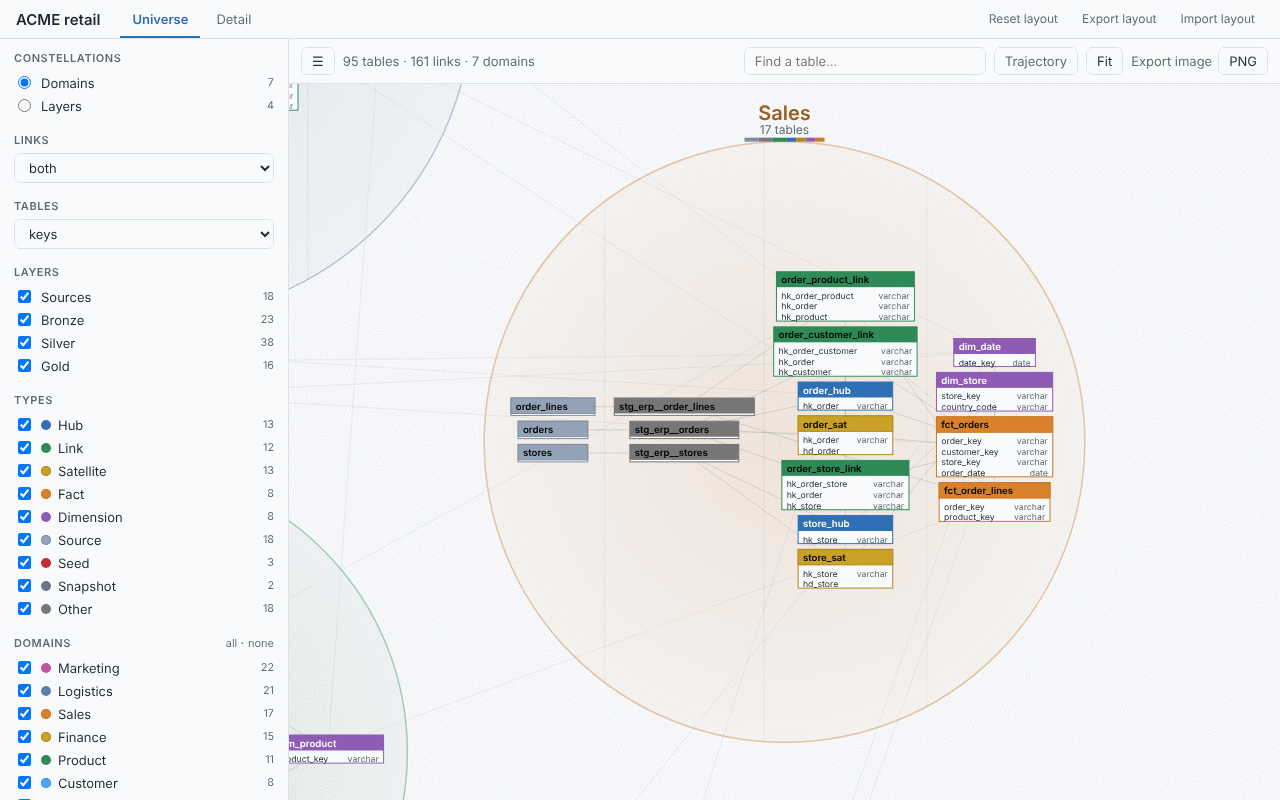
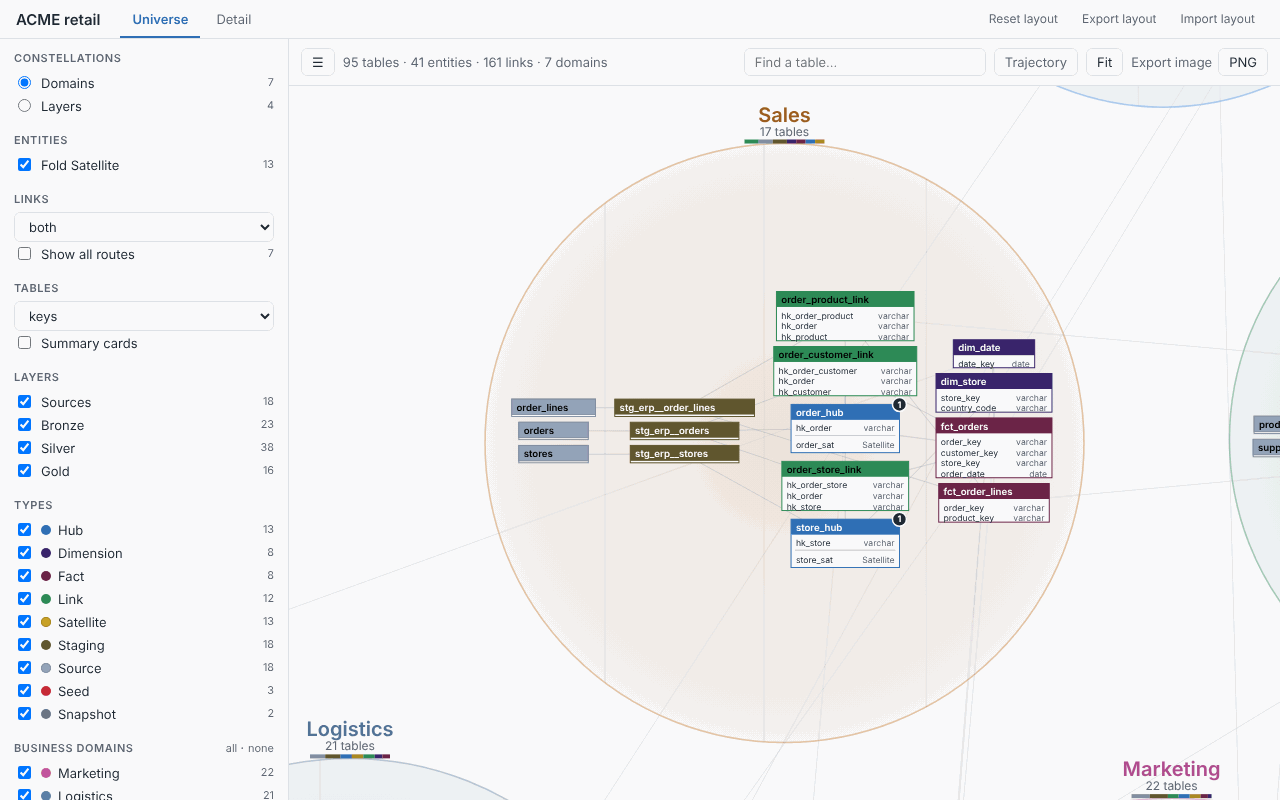
docs(docs): documentation round after M8
The seven screenshots of the example are retaken on the page as M8
leaves it (satellites folded, summary cards off by default), and
three images of the generated large project join them: its overview
with source systems apart and routes, the same with summary cards,
and the skeleton of a large detail group. The user guide shows them
where the features are described; the README and the root CLAUDE.md
name the M8 features, and the README's CI line follows D-053.
Approval of the screenshots by the user is pending.

Milestone: M8

Claude-Session: https://claude.ai/code/session_01SqA5qnr2e821Rq5c737Dbk

diff --git a/docs/progress.md b/docs/progress.md
@@ -39,6 +39,7 @@ Maintained by the `/build-roadmap` skill. Branch: a feature branch per session, 
 | M8.4 Source systems apart, readable routes | done | `c7a93f1` | Built per `docs/architecture/2026-11-12-m8.4-systems-routes.md` (D-068 to D-071), brief `docs/briefs/2026-11-12-m8-synthesis.md` § 4 and § 8. Payload: `UniverseDomain.system`, last key of a domain, default false; the reference pages change by that key and the script only (payloads equal once the key is removed); `true` in `data_vault` (raw, staging), `edge` (raw), `fr` (raw), `layers_domains` (raw), `none` (raw), `roles` (products, raw, sales_team), `star_schema` (staging); `kinds` has none. Config: `DomainRule.system` (first rule of the key that sets it wins).<br>Placement at 1280 × 800: Fit 0.187 (0.181 before; the toolbar keeps one row), weight 1, 6 cards (five business and one group card of the seven systems, 118 × 138 px, area 0.19 of the seven M8.3 squares), card widths vehicle 214, auction 189, account 170, activity 131, claim 125; `GRID_GAP` 120 and `FLOW_X_BUSINESS` 0.15 kept as designed (the large project has no directed business route, so only the systems move). Route ink: the design's .5 was raised to **.6** after the large-project Fit screenshot (the thin business routes did not read at .5); arrowheads .8.<br>Routes on the large project (links both): 15 routes at Fit (10 business, 5 bundled; 13 drawn by default, "13 of 15 routes"), 43 at the stars scale (35 drawn; 26 after fix loop 1: a system draws at most its three heaviest, none of weight 1, none uncleared). **Crossings** (route paths against the outlines, `geometry().routes` and `outlines`, 1 px shrink): 0 and 0 unclear on the large project in domain mode at Fit and at the stars scale, in layer mode (3 routes) at both, and on acme_retail at Fit (7 routes); straight centre-to-centre segments over the same discs cross 37 constellations (43 routes, stars scale; measured on the M8.4 placement, not the M8.3 one). Measures (browser, large project): page open 0.39 to 0.45 s (budget 3 s); `perf.layout` 77 to 90 ms; `perf.routes` 4 ms at Fit and 22 to 34 ms at the stars scale on first draw (budget 30 ms: at the limit when 18 routes need the visibility graph; paths are found when drawn and kept while nothing moves); a Links change 90 to 130 ms (1 s); a frame 1.4 ms at Fit, 25 to 37 ms at the stars scale on first draw (50 ms), spotlight redraw 1.5 to 2.5 ms; a drag step 2 to 6 ms (16 ms); the 1,500-table payload (30 domains, 210 routes, the visibility graph skipped above 14 obstacles) 570 ms for a detail change (1 s). Page sizes: acme 267 kB (227 before), large 957 kB (917 before). Default suite 925 passed, 4 skipped (904 before); browser suite 424 (385 before), see the final run in the commit. Deviations in the note's terms: the obstacle of a constellation is its disc and its card square plus 20 world px, not a circle of 1.2 r + 20 (that circle overlaps its neighbours' on the large project and leaves no passage); a visibility-graph search is the last resort after the straight, bent and waypoint candidates; `#u-meta` wraps inside a two-line box of its own (a longer line wrapped the toolbar, resized the stage and refitted the page when the zoom crossed 0.6); the all / none links of the Domains headings are keyboard stops; the group card's count line falls back to "504 tables" at 118 px (the room rule), the full line is in the tooltip and the text summary. Review loop 1 (1460c16, c7a93f1): layer-mode band keys fixed (one `DOM_LIST`); at most 3 routes per source system, no ties, none of weight 1 unless spotlighted (26 of 43 at stars, was 35); uncleared routes hidden unless spotlighted; no-crossing test extended to the stars scale; `perf.routes` per frame; one-line meta, tooltip off the hovered card. Full browser suite 445 passed. Open: the group card heading still reads "Sour…" at 360 px; the stars-scale perf test retries a second batch on a busy machine (alone: median 12 ms, worst 15.5 ms). **Screenshots await the user's approval at the M8 close** (done-when 2 of M8.4; retaken then, `docs/images/README.md`). |
 | M8.5 Detail skeleton | done | `544016a` | Built per `docs/architecture/2026-11-12-m8.5-detail-skeleton.md` (D-072 to D-077), brief `docs/briefs/2026-11-12-m8-synthesis.md` § 4 and § 9. Payload: `DetailEntity.parent` and `DetailKind.role`, last keys at their defaults (`detail_data(parents)`, the universe's parent map built by `cli._views`); the reference pages change only by those keys (all empty, no case holds a parent), regenerated once. `detail.js`: skeleton, folded row, tooltip, meta line, highlight, Entities control (`dbtscope-detail-fold:<title>`), passage rule, `|fold` arrangement key, `drawing()` hook; `common.js` `viewerMemory`, `foldLabel` and the shared fold strings (moved from `universe.js`, no behaviour change); `tests/browser/test_detail_skeleton.py`, `tests/fixtures/m8.5-detail-baseline.json` (acme_retail and shop drawings equal the pre-M8.5 ones, by hash).<br>**Measure of § 5.4** (`vehicle` group, 277 tables in the scope, 1280 × 800, header = 16 pt × Fit × 1.15³): today no fold 277 drawn, 1,745 × 20,430 pt, W/H 0.09, 0.4 s, 0.8 px; fold with today's layout 138, 1,236 × 6,984, 0.18, 0.4 s, 2.4 px; dot with imposed columns (§ 5.2, K = 6) 138, 1,636 × 5,801, 0.28, 0.4 s, 2.9 px; fallback 1 (nodesep 0.2, ranksep 0.7) 1,083 × 4,962, 0.22, 3.3 px (est.), with the sinks over 6 columns 4,015 × 4,348, 0.92, 3.8 px (est.); **adopted: the grid of § 5.2's dealing, K = 7, pinned in neato** 138, 1,942 × 1,267, W/H 1.53, 2.6 s, 18 ms of preparation, 12.4 px (bounds: 5 s, 50 ms, 10 px, W/H 0.5 to 3). The missed bounds led to D-074 (grid + neato); drawn is 138, not the estimated 136 (72 hubs, 64 links, 2 satellites without a parent in the scope). "All groups" (788 tables, 368 drawn) draws straight lines (Viz.js aborts out of memory when 277 pinned tables are routed), 0.5 s. A focus on a median hub (8 tables): header 17.7 px at Fit; on the busiest hub 7 px at Fit, readable after one notch.<br>Default suite 940 passed, 4 skipped; browser 480 (445 before); page 287 kB on the example (270 before). Open points below Review loop 1 (544016a, D-078): column pairs [hubs | links], each link beside its first parent, rows aligned by barycentre sweeps, straight grey edges; vehicle skeleton 138 tables, W/H 1.65, 0.3 s (was 2.6 s), names 10.7 px after three notches (bound 10); the shown 277-table drawing on the same grid (W/H 1.29, 0.3 s) with a Fold button by the warning; `TIP_FOLDED` in common.js. Default suite 948; browser 492. **Screenshots await the user's approval at the M8 close** (M8.5 changes the detail images; retaken then, `docs/images/README.md`). |
 | M8.6 Summary cards optional, off by default | done | | Built per `docs/architecture/2026-11-14-m8.6-cards-switch.md` (D-081). Payload: `defaults.cards`, last key of the universe defaults; every reference page changes only by `,"cards":false` (payloads equal once removed, checked on all ten cases), regenerated once. `universe.cards` (strict bool, default false, allowed in presets); `universe.js` `state.cards`, `cardsMemory` (`dbtscope-cards:<title>`), the one switch point `summaryWeight`, `#u-cards-row`, strings en / fr, `geometry().summary.on`, hook `labelRects()`; no CSS change. Existing card tests run on `large_cards_page` / `CARDS_ON`, assertions unchanged; new `tests/browser/test_cards_switch.py` (27 tests). Labels at Fit with cards off: 1280 px no overlap, worst reach into another disc 6.3 px (domains), 0 (layers); 360 px six pairs of system labels overlapped, fixed by skipping a label that is not free (business first, then systems in grid order); 360 px still shows a business label 25 px over its neighbour's disc (recorded in the note, left to the user). Default suite 959 passed, 4 skipped (948 before); browser suite serial 520 (493 before). |
+| Documentation round after M8 | done, approval pending | | 2026-11-15. The seven acme_retail screenshots retaken (cards off, satellites folded, the detail as the whole window) and three `large-*` images added (overview, cards, detail skeleton), `docs/images/README.md` updated; the three new images referenced in the user guide, the `universe-overview` caption corrected; README no longer says CI runs on three systems (D-053); roadmap, changelog and `CLAUDE.md` "What this is" updated. The guide and how-it-works were found true against the code for M8. Approval of the screenshots by the user: pending. |
 
 ## Open points
 

diff --git a/docs/user-guide.md b/docs/user-guide.md
@@ -48,7 +48,7 @@ Where it comes from: the dbt **manifest**, which `dbt parse` writes. Relations c
 
 dbtscope never connects to your warehouse and the page holds no data: only names, types and descriptions ([what never happens](how-it-works.md#what-never-happens)).
 
-![The universe of the example project: seven domains, their tables by layer, and the routes between domains](images/universe-overview.png)
+![The universe of the example project: seven domains, their tables by layer with the satellites folded into their hubs, and the routes between domains](images/universe-overview.png)
 
 ### Words used in this guide
 
@@ -795,6 +795,7 @@ Every model, source, seed and snapshot of the project as a star, grouped into on
 
 An option, **off by default**: tick **Summary cards** in the side panel (or set `universe.cards: true` in `dbt-erd.yml` or in a preset file to open with it) and zooming out replaces the swarm of stars of each constellation by one **summary card**. Unticked, the map shows stars, names and routes at every zoom, a source system is a grey disc of its own and the routes of the source systems are not bundled.
 
+![The large example project zoomed out with Summary cards ticked: one card per business domain and one group card for the source systems](images/large-cards.png)
 
 - **What a card says**: the name (in the domain's colour), `299 tables · 152 entities` (entities only while the descriptive tables are folded), then one row per layer in flow order (one per domain when grouping by layer, with its colour dot): the label, a bar split by kind in the order of the Types list (the widest row fills the bar; a kind is never thinner than 2 px) and the number of tables; then **Main tables**, up to five core tables with the most relations, each with its kind dot. A constellation with no core table (a source system) shows no main table. Every count includes the folded tables and follows the filters.
 - **When it appears**: the card replaces the stars when the reference star (the median core star, or the median star of the highest role present) would be drawn under about 2 px; it is fully drawn there and the stars are fully drawn from about 3 px up, with a crossfade in between. On a screen too narrow to tell stars apart, or after zooming out past **Fit**, even a small project shows cards. Unticking **Summary cards** (or leaving `universe.cards` at `false`) turns the cards off at every zoom; the hidden text summary below stays.
@@ -811,6 +812,8 @@ An option, **off by default**: tick **Summary cards** in the side panel (or set 
 - **Routes**: one per pair of domains linked by their tables, from the edge of one to the edge of the other, curved around the domains in between, as thick as the number of links, with an arrowhead at the reader's end when the lineage goes one way (two heads when each reads the other, none for business relations only, which have no direction). By default the strongest are drawn: those among the three heaviest of either of their ends; a source system draws at most its three heaviest, none of weight 1, and a route the page cannot draw clear of the other domains is left out too. When some are hidden the count line says so ("18 of 40 routes", in place of the number of links, so the line stays on one line) and **Show all routes** draws them all (kept for the session only); pointing at a domain draws all its routes anyway. With summary cards on, from afar the routes of the source systems are bundled into one route per business domain.
 - **Hover or focus**: pointing at a domain, or hovering or focusing its row in the panel (Tab to the row), draws **all** its routes, keeps its neighbours bright and dims the rest. Hovering a route gives its tooltip: its ends (upstream first), its relations and lineage links (only those **Links** counts), who reads whom, and for a bundled route the systems it sums.
 - **Screen readers**: the hidden summary lists the source systems as one block and, for each constellation, every route with its counts and direction.
+
+![The large example project at opening, summary cards off: the seven source systems apart on the left, the five business domains along the data flow, and the routes between them](images/large-overview.png)
 
 ### Entities: descriptive tables folded into their parent
 
@@ -871,6 +874,8 @@ The entity-relationship diagram of one group of tables, drawn by Graphviz.
 - **Kind filters**: tick hubs, links, facts, dimensions… on and off. The layout is recomputed.
 - **Focus**: type a table name or double-click a table to show only its neighbourhood, 1 to 3 levels deep; **Show all** returns to the whole group. A **connector** (a link of a Data Vault, or any kind with the role `connector`) costs no level: at "direct links" a hub shows its satellites, its links and the hubs across those links; the panel says "Passing through Link costs no level". A focus draws every table of its neighbourhood in full, with its columns, whatever the fold choice below.
 - **Large groups, folded**: when a group holds more than 60 tables and some descriptive tables have a parent ([why a satellite has no parent](#why-is-this-satellite-not-folded)), the detail opens as a **skeleton**: only the core and connector tables are drawn, hubs on the left and links on the right, laid out in as many column pairs (hubs, then their links) as the drawing area asks for, so that the names stay readable after a few wheel notches; relations are straight grey lines on a large drawing (above 5,000 tables × relations; smaller ones route them around the tables). Unfolded, the group is drawn the same way (a warning says it is hard to read, with a **Fold** button next to it). Each table that holds descriptive tables ends with one row, "+ 3 folded tables · Satellite" (or "+ 4 folded tables · Satellite 3 · PIT 1"); hover the table for the list of its folded tables and its column count. A skeleton draws no column rows, only the table's name and the folded row: a focus, or **All columns**, shows the columns. The meta line reads "138 / 277 tables · 139 folded · N relations" (the large example project's `vehicle` group): drawn tables out of the group's, folded tables, drawn relations (hover it for the split by kind). Type a name in **Highlight…** and the table that holds the match is lit.
+![A large group of 277 tables opened as a skeleton: 138 tables drawn, hubs on the left and links on the right, each with its folded row](images/large-detail-skeleton.png)
+
 - **Entities**: the panel's **Entities** box, "Fold Satellite", shows only for such a group, with the number of tables it folds. Untick it to draw every table of the group; the page then warns "271 tables: the drawing will be hard to read". While a table is focused, the box is greyed (a focus draws every table); your choice applies again when you press **Show all**. The page remembers it in the browser (`dbtscope-detail-fold:<title>`, never exported); it is separate from the universe's **Fold**.
 - **Columns**: key columns only by default (columns matching `key_columns`, plus every column used by a relation, in bold), with **All columns** for every column. Hover a table for its dbt description.
 - **Highlight**: click a table to highlight its links; type in **Highlight…** to mark tables by name.

diff --git a/docs/images/README.md b/docs/images/README.md
@@ -1,16 +1,19 @@
 # Documentation screenshots
 
-Screenshots of the page of the example project `examples/acme_retail`, used by the README and `docs/user-guide.md`. Approved by the user on 2026-11-05 (M6.1, design note `docs/architecture/2026-11-05-m6.1-documentation.md` § 7). Budget, checked by `tests/unit/test_docs.py`: each PNG at most 200 kB, the folder at most 1.2 MB, every image referenced by a document.
+Screenshots of the page of the example project `examples/acme_retail` and of the generated large project (`tests/large_project.py`), used by the README and `docs/user-guide.md`. The seven acme_retail images were approved by the user on 2026-11-05 (M6.1, design note `docs/architecture/2026-11-05-m6.1-documentation.md` § 7); the retake of 2026-11-15 and the three `large-*` images: approved: pending (user). Budget, checked by `tests/unit/test_docs.py`: each PNG at most 200 kB, the folder at most 1.2 MB, every image referenced by a document.
 
 | File | View and state | Used in |
 |---|---|---|
-| `universe-overview.png` | universe at opening (Fit), names level, every domain | README, user guide § What dbtscope is |
-| `universe-domain.png` | Sales domain framed as a double-click does, keys level | user guide § The universe view |
-| `trajectory.png` | trajectory of `fct_orders`, both directions, all levels, then Fit | § Trajectory |
+| `universe-overview.png` | acme_retail, universe at opening (Fit), names level, every domain, summary cards off (default), satellites folded into their hubs | README, user guide § What dbtscope is |
+| `universe-domain.png` | acme_retail, Sales domain framed as a double-click does, keys level | user guide § The universe view |
+| `trajectory.png` | acme_retail, trajectory of `fct_orders`, both directions, all levels, then Fit | § Trajectory |
 | `flow.png` | the flow of that trajectory, Fit | § Flow |
-| `detail-vault.png` | detail, group `sales`, key columns, kinds Fact and Dimension unticked (with them the dimension row and the vault block overlap, so no cut keeps every table whole), zoomed out one wheel step from Fit and cut below the last whole row of tables (1280 × 725) | § The detail view |
-| `detail-focus.png` | detail, group `customer`, focus on `dim_customer`, direct links, all columns, zoomed out three wheel steps from Fit | § The detail view |
-| `small-screen.png` | universe at 390 × 844, touch, panel closed | § Zoom, pan and touch |
+| `detail-vault.png` | acme_retail, detail, group `sales`, key columns, kinds Fact and Dimension unticked, Fit then zoomed out one wheel step; the whole window (1280 × 800), every table whole | § The detail view |
+| `detail-focus.png` | acme_retail, detail, group `customer`, focus on `dim_customer`, direct links, all columns, Fit then zoomed out three wheel steps | § The detail view |
+| `small-screen.png` | acme_retail, universe at 390 × 844, touch, panel closed | § Zoom, pan and touch |
+| `large-overview.png` | large project, universe at opening (Fit), links `both`, names level, summary cards off (default): the seven source systems apart on the left, the five business domains along the flow, routes between them | user guide § The universe view, Source systems and routes |
+| `large-detail-skeleton.png` | large project, Detail tab at opening: group `vehicle` (the largest, 277 tables), satellites folded (the skeleton: 138 tables drawn), key columns, Fit | user guide § The detail view, Large groups, folded |
+| `large-cards.png` | large project, the same overview with **Summary cards** ticked: one card per business domain and the group card of the source systems | user guide § The universe view, Summary cards |
 
 ## Retaking them
 
@@ -30,3 +33,22 @@ A page milestone that changes what an image shows retakes it. The text of the gu
 3. Optimise: keep the lossless PNG when it is within 200 kB; otherwise quantise it to 256 colours with dithering (for example Pillow: a fast-octree palette, then `quantize(palette=…, dither=FLOYDSTEINBERG)`, saved with `optimize=True`, or `pngquant --quality 70-90`). Look at each image before keeping it: the kind and domain colours must stay true.
 
 The M6.1 images were taken this way by a Playwright script and a Pillow script kept outside the repository (design note § 7, As built). All seven were retaken the same way on 2026-11-05 when the example became a medallion project (bronze, silver and gold layers, domains from schemas).
+
+All ten were taken the same way on 2026-11-15 (after M8: roles, entities, summary cards off by default, source systems and routes, the detail skeleton), by scripts kept in the session scratchpad. The Playwright states: `universe-domain.png` ticks `keys` in the Tables select, then double-clicks an empty spot of the Sales disc, then moves the pointer off the canvas so that no tooltip shows; `trajectory.png` and `flow.png` fill `#u-q`, click `#u-traj` (direction `both`, depth `dall`), **Fit**, then **Flow** and its **Fit**; the detail images pick the group, untick kinds through the panel, click **Fit** and use `mouse.wheel` (100 per step) over the diagram; no image shows a tooltip or a hover state. Images taken with a quantised palette: `universe-domain`, `trajectory`, `large-overview`, `large-detail-skeleton`; the others are lossless.
+
+## The large project
+
+`large-*.png` come from the generated project of `tests/large_project.py` (1,419 tables, 7 source systems, 5 business domains, its own `dbt-erd.yml` with `LARGE_CONFIG`, no `universe.cards`, so the cards are off at opening). Build and open it like this (the writer, `write_large_project(folder)`, is run from `tests/` because it imports `conftest`):
+
+```bash
+SCRATCH=$(mktemp -d)               # any folder outside the repository
+(cd tests && uv run python -c "
+from pathlib import Path
+from large_project import write_large_project
+write_large_project(Path('$SCRATCH/large'))")
+uv run dbtscope --project-dir "$SCRATCH/large" --no-parse --no-open --offline -o "$SCRATCH/large-offline.html"
+```
+
+- `large-overview.png`: open the page at 1280 × 800, device scale 1; wait 3 s for the layout; move the pointer to the empty part of the toolbar; take the window.
+- `large-cards.png`: tick `#u-cards-box` on the same page, move the pointer back to the toolbar, wait 2.5 s, take the window.
+- `large-detail-skeleton.png`: on a fresh page click the Detail tab, wait until both export buttons are enabled and 2.5 s more (the group is `vehicle`, nothing to choose), move the pointer to the left of the toolbar, take the window.

diff --git a/README.md b/README.md
@@ -2,9 +2,9 @@
 
 Interactive map of a dbt project, in one self-contained HTML page: a **universe** view of every table grouped by data domain, and a **detail** view with the entity-relationship diagram of the tables you pick.
 
-Warehouses built with dbt rarely declare foreign keys, so database tools draw tables with no links between them. `dbtscope` reads the dbt **manifest** instead: every `relationships` test (and every `foreign_key` constraint of a model contract) becomes a relation, drawn as a link. Which models are drawn, how they are coloured and how they are grouped is driven by naming conventions, tags, paths or schemas — Data Vault and star schema presets are built in, any other convention is a few lines of YAML.
+Warehouses built with dbt rarely declare foreign keys, so database tools draw tables with no links between them. `dbtscope` reads the dbt **manifest** instead: every `relationships` test (and every `foreign_key` constraint of a model contract) becomes a relation, drawn as a link. Which models are drawn, how they are coloured and how they are grouped is driven by naming conventions, tags, paths or schemas — Data Vault and star schema presets are built in, any other convention is a few lines of YAML. A large project stays readable: satellites fold into their entity, source systems sit apart, routes between domains are curved and the strongest are drawn first, optional summary cards replace the stars from afar, and a large group opens in the detail as a skeleton.
 
-![The universe of the example project: seven domains, their tables by layer, and the routes between domains](docs/images/universe-overview.png)
+![The universe of the example project: seven domains, their tables by layer with the satellites folded into their hubs, and the routes between domains](docs/images/universe-overview.png)
 
 ## Quick start
 
@@ -44,7 +44,7 @@ The page itself is tested in headless Chromium (`tests/browser/`, marker `browse
 
 The example project `examples/acme_retail/` is also a test input: its `dbt parse` manifest is committed in `tests/fixtures/acme_retail/`, and a check against a fresh `dbt parse` runs when `DBTSCOPE_DBT` names a dbt with dbt-duckdb (D-033).
 
-How the code is built (the run, the layers and their allowed imports, the responsibility map): [`docs/architecture.md`](docs/architecture.md). Why: [`docs/decisions.md`](docs/decisions.md). CI runs on Ubuntu, Windows and macOS (D-043, D-044, `.github/workflows/ci.yml`).
+How the code is built (the run, the layers and their allowed imports, the responsibility map): [`docs/architecture.md`](docs/architecture.md). Why: [`docs/decisions.md`](docs/decisions.md). The CI is local (`uv run python tools/ci.py`, run by the pre-push hook); the GitHub workflow only runs when started by hand (D-053).
 
 ### Working with Claude Code
 

diff --git a/CLAUDE.md b/CLAUDE.md
@@ -6,10 +6,10 @@ Read this file at the start of every session. It is the source of truth for how 
 
 `dbtscope` turns a dbt project into one self-contained, interactive HTML map, for everyone who works with the warehouse (data team, business, management). It runs on a developer's machine or in CI, from the dbt project directory: it runs `dbt parse`, reads `target/manifest.json` (never the warehouse) and writes `erd_output/erd.html`.
 
-1. **Universe view**: every model, source, seed and snapshot, grouped into one constellation per data domain, with routes between domains, layers along the data flow, filters and semantic zoom.
-2. **Detail view**: the entity-relationship diagram (Graphviz) of the selected tables, with their key or all columns, group and kind filters, and focus on a table's neighbourhood.
+1. **Universe view**: every model, source, seed and snapshot, grouped into one constellation per data domain, with routes between domains, layers along the data flow, filters and semantic zoom; descriptive tables folded into their entity, source systems apart, optional summary cards (off by default).
+2. **Detail view**: the entity-relationship diagram (Graphviz) of the selected tables, with their key or all columns, group and kind filters, focus on a table's neighbourhood, and a skeleton (folded tables) for large groups.
 3. **Relations from dbt declarations**: `relationships` tests and `foreign_key` constraints become relations; `ref` / `source` give the lineage.
-4. **Conventions as config**: selectors and ordered rules in `dbt-erd.yml` (kinds, domains, layers), with Data Vault and star schema presets.
+4. **Conventions as config**: selectors and ordered rules in `dbt-erd.yml` (kinds with roles, domains, layers), with Data Vault and star schema presets.
 5. **Shared manual layout**: arrangements dragged in the page are exported to `dbt-erd-layout.json` and embedded in later pages.
 
 Read next: `docs/user-guide.md` (for users: install, usage, every feature), `docs/how-it-works.md` (how it works, in user terms), `docs/architecture.md` (how it is built), `docs/brief-universe-view.md` (the universe view's brief), `docs/decisions.md` (why), `docs/roadmap.md` (what to build, in order), `docs/progress.md` (where the build stands), `docs/ui-spec.md` (the page's design), `docs/architecture/` (design notes), `docs/briefs/` (briefs), `examples/acme_retail/` (the example dbt project, a test input, D-033).

diff --git a/docs/roadmap.md b/docs/roadmap.md
@@ -268,7 +268,7 @@ Done when: each phase meets the "Done when" list of its section of the brief and
 
 ## Later (not scheduled)
 
-- Documentation round after M8 (user, 2026-11-13): retake the screenshots of `docs/images/` for roles, entities, summary cards, source systems and routes, and the detail skeleton (acme_retail and the large generated project), with the user's approval; a pass over the user guide and how it works.
+- Documentation round after M8 (user, 2026-11-13) (done, 2026-11-15; screenshot approval pending): the ten screenshots of `docs/images/` retaken (acme_retail and the large generated project; three new `large-*` images), a pass over the user guide and how it works.
 - CLI message "see the Configuration section of the README" (`storage/project_files.py`): point it at the user guide when a milestone next changes CLI messages (left out of M6.1, which changes no code).
 - Default layers for medallion folders, from M5.12: covered by the built-in presets' default layers (M8.1, D-060); still no rank without rules (`bronze*`, `silver` and `gold` sort alphabetically when a project sets neither a preset nor `layers`).
 - Colour marks, from the M5.7 review: the crimson seed (#c62a36) is only about 11 ΔE2000 from the downstream trajectory orange (#c2410c), so a downstream ring on a seed star reads weakly, and a seeds-only domain bar can read as an alert; a white header cell in the detail shows a box in a box (table border plus cell outline).

diff --git a/CHANGELOG.md b/CHANGELOG.md
@@ -4,6 +4,10 @@ All notable changes are listed here, newest first. Format: [Keep a Changelog](ht
 
 ## [Unreleased]
 
+### Documentation
+
+- Documentation round after M8: the screenshots of `docs/images/` retaken (acme_retail: cards off, satellites folded) and three added from the large project (overview with source systems and routes, summary cards, detail skeleton), referenced in the user guide; the guide and "How dbtscope works" checked against the code; the README no longer says the CI runs on three systems. Screenshot approval pending.
+
 ### Fixed
 
 - Audit fixes (M8.5, D-079, D-080). A `system` override rule after a domain's own rule no longer replaces its label and colour (the first rule of a key that sets each gives it); a focus on a hub draws the satellites folded into it by name only; the folded-tables tooltip lines and `foldLiveOff` are shared by both views.
